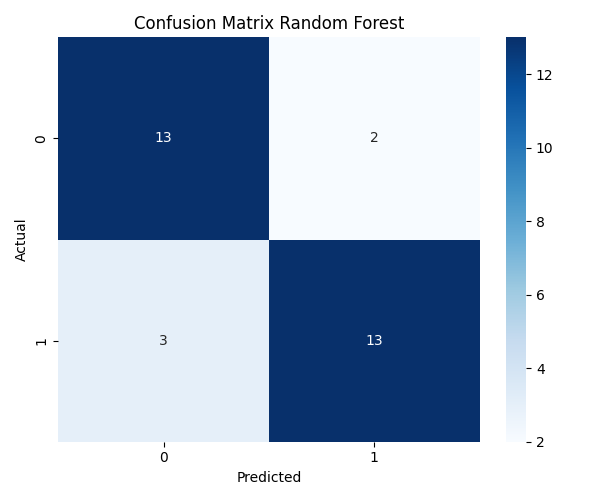
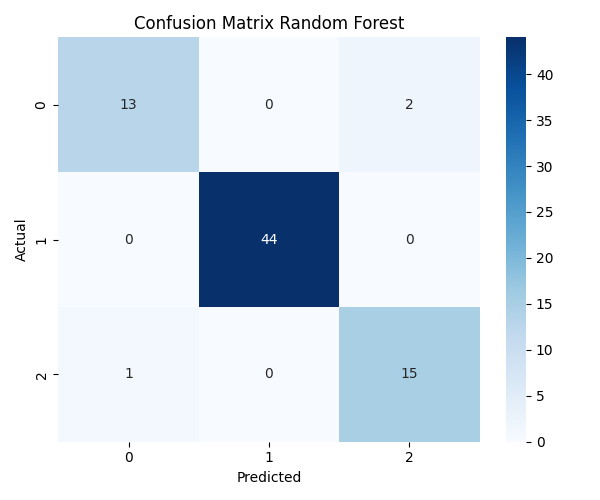
membuat website dengan streamlit dan update train_random_forest.py

diff --git a/app.py b/app.py
@@ -1,0 +1,147 @@
+import streamlit as st
+import pandas as pd
+import pickle
+
+# ==========================
+# LOAD MODEL DAN FILE
+# ==========================
+
+with open("random_forest_model.pkl", "rb") as file:
+    model = pickle.load(file)
+
+with open("scaler.pkl", "rb") as file:
+    scaler = pickle.load(file)
+
+with open("gender_encoder.pkl", "rb") as file:
+    gender_encoder = pickle.load(file)
+
+with open("bmi_encoder.pkl", "rb") as file:
+    bmi_encoder = pickle.load(file)
+
+with open("target_encoder.pkl", "rb") as file:
+    target_encoder = pickle.load(file)
+
+# ==========================
+# TAMPILAN WEBSITE
+# ==========================
+
+st.title("Sleep Disorder Prediction")
+
+st.write(
+    "Masukkan data kesehatan dan gaya hidup untuk "
+    "melakukan prediksi gangguan tidur."
+)
+
+st.subheader("Input Data")
+
+gender = st.selectbox(
+    "Gender",
+    ["Female", "Male"]
+)
+
+age = st.number_input(
+    "Age",
+    min_value=1,
+    max_value=100,
+    value=25
+)
+
+sleep_duration = st.number_input(
+    "Sleep Duration",
+    min_value=0.0,
+    max_value=24.0,
+    value=7.0
+)
+
+physical_activity = st.number_input(
+    "Physical Activity Level",
+    min_value=0,
+    max_value=100,
+    value=50
+)
+
+stress_level = st.number_input(
+    "Stress Level",
+    min_value=1,
+    max_value=10,
+    value=5
+)
+
+bmi_category = st.selectbox(
+    "BMI Category",
+    [
+        "Normal",
+        "Normal Weight",
+        "Obese",
+        "Overweight"
+    ]
+)
+
+heart_rate = st.number_input(
+    "Heart Rate",
+    min_value=30,
+    max_value=200,
+    value=70
+)
+
+daily_steps = st.number_input(
+    "Daily Steps",
+    min_value=0,
+    value=5000
+)
+
+systolic = st.number_input(
+    "Systolic",
+    min_value=50,
+    max_value=250,
+    value=120
+)
+
+diastolic = st.number_input(
+    "Diastolic",
+    min_value=30,
+    max_value=150,
+    value=80
+)
+
+# ==========================
+# PREDIKSI
+# ==========================
+
+if st.button("Predict"):
+
+    gender_encoded = gender_encoder.transform(
+        [gender]
+    )[0]
+
+    bmi_encoded = bmi_encoder.transform(
+        [bmi_category]
+    )[0]
+
+    input_data = pd.DataFrame({
+        "Gender": [gender_encoded],
+        "Age": [age],
+        "Sleep Duration": [sleep_duration],
+        "Physical Activity Level": [physical_activity],
+        "Stress Level": [stress_level],
+        "BMI Category": [bmi_encoded],
+        "Heart Rate": [heart_rate],
+        "Daily Steps": [daily_steps],
+        "Systolic": [systolic],
+        "Diastolic": [diastolic]
+    })
+
+    input_scaled = scaler.transform(input_data)
+
+    prediction = model.predict(input_scaled)
+
+    result = target_encoder.inverse_transform(
+        prediction
+    )[0]
+
+    st.subheader("Prediction Result")
+
+    st.success(
+        f"Hasil Prediksi: {result}"
+    )
+

diff --git a/train_random_forest.py b/train_random_forest.py
@@ -23,10 +23,13 @@ import seaborn as sns
 
 print("===== IMPORT DATASET =====")
 
-df = pd.read_csv("Sleep_health_and_lifestyle_dataset.csv")
-
+df = pd.read_csv(
+    "Sleep_health_and_lifestyle_dataset.csv",
+    keep_default_na=False
+)
 print("Jumlah data:", df.shape)
-
+print("\n===== CEK TARGET =====")
+print(df["Sleep Disorder"].value_counts(dropna=False))
 
 # 3. PREPROCESSING SINGKAT
 
@@ -256,3 +259,4 @@ print("feature_importance.png")
 # ============================================
 
 print("\nCheckpoint 4 selesai")
+print(target_encoder.classes_)